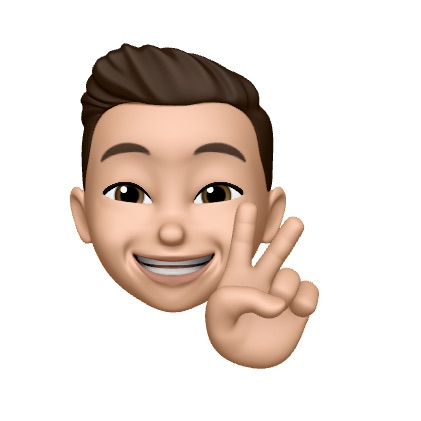
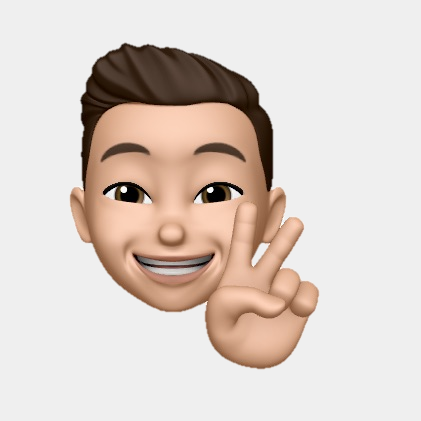
網頁icon調整、新增main區塊文字動畫

diff --git a/index.html b/index.html
@@ -13,7 +13,8 @@
     <title>Jack Tsai</title>
 </head>
 
-<body> <!--文字RWD待製作 2020/06/01-->
+<body>
+    <!--文字RWD待製作 2020/06/01-->
     <div class="container">
         <header>
             <div class="row">
@@ -52,10 +53,15 @@
             </ul>
         </nav>
         <main class="p-4">
-            <div id=hello class="text-center my-4">
+            <h2 class="ml10" id=hello class="text-center my-4">
+                <span class="text-wrapper">
+                    <span class="letters">Hi ! 很高興認識你，你可以透過上方的導覽列來了解更多關於我的資訊。</span>
+                </span>
+            </h2>
+            <!-- <div id=hello class="text-center my-4">
                 <h2 style="color: #FC4A1A;">Hi ! 很高興認識你，</h2>
                 <h4 style="color: #FC4A1A; font-weight: bold;">你可以透過上方的導覽列來了解更多關於我的資訊。</h4>
-            </div>
+            </div> -->
             <div id="personal" class="hide" style="padding: 50px 0px 50px 0px;">
                 <h2 class="main_tag">個人簡歷</h2>
                 <div class="main_container mb-3">
@@ -147,8 +153,22 @@
             </div>
             <div id="skill" class="hide" style="padding: 50px 0px 50px 0px;">
                 <h2 class="main_tag">技能分析</h2>
+                <!--使用D3.js做技能分析圓餅圖，下方文字敘述各技能可做到的事。-->
                 <div class="main_container mb-3">
                     2020/06/01 技能樹待製作
+                    <hr>
+                    <!-- 
+                    HTML5
+                    CSS3
+                    JavaScript
+                    Bootstrap4
+                    Node.js + Express
+                    D3.js
+                    mongodb
+                    Scss
+                    Git
+                    React.js 
+                -->
                 </div>
             </div>
         </main>
@@ -160,6 +180,7 @@
 
     <!-- Optional JavaScript -->
     <!-- jQuery first, then Popper.js, then Bootstrap JS -->
+    <script src="https://cdnjs.cloudflare.com/ajax/libs/animejs/2.0.2/anime.min.js"></script>
     <script src="./js/bootstrap.js"></script>
     <script src="./js/app.js"></script>
 </body>

diff --git a/css/style.css b/css/style.css
@@ -100,20 +100,42 @@ main {
     z-index: 0;
 }
 
+/* 文字動畫效果 */
+.ml10 {
+    position: relative;
+    font-weight: 900;
+    font-size: 1.5em;
+    text-align: center;
+}
+
+.ml10 .text-wrapper {
+    position: relative;
+    display: inline-block;
+    overflow: hidden;
+}
+
+.ml10 .letter {
+    display: inline-block;
+    transform-origin: 0 0;
+    color: #FC4A1A;
+}
+
+/* 文字動畫效果 */
+
 .main_tag {
     display: inline-block;
     margin-bottom: 0;
     padding: 10px;
     background-color: #FC4A1A;
     color: white;
-    border-radius: 8px 8px 0 0;
+    border-radius: 20px 20px 0 0;
 }
 
 .main_container {
     margin-top: 0;
     background-color: white;
     border: 2px solid #FC4A1A;
-    border-radius: 0 10px 10px 10px;
+    border-radius: 0 20px 20px 20px;
     padding: 15px;
 }
 
@@ -158,12 +180,12 @@ main {
 }
 
 .card-body {
-    border-radius: 0px 0px 10px 10px;
+    border-radius: 0px 0px 20px 20px;
     background-color: rgb(250, 248, 248);
 }
 
 .card-img-top {
-    border-radius: 10px 10px 0px 0px;
+    border-radius: 20px 20px 0px 0px;
 }
 
 

diff --git a/js/app.js b/js/app.js
@@ -14,3 +14,22 @@ function show(item) {
     show.classList.toggle("hide");
     show.scrollIntoView(true);
 }
+
+// 文字動畫效果
+var textWrapper = document.querySelector('.ml10 .letters');
+textWrapper.innerHTML = textWrapper.textContent.replace(/\S/g, "<span class='letter'>$&</span>");
+anime.timeline({
+        loop: true
+    })
+    .add({
+        targets: '.ml10 .letter',
+        rotateY: [-90, 0],
+        duration: 1500,
+        delay: (el, i) => 45 * i
+    }).add({
+        targets: '.ml10',
+        opacity: 0,
+        duration: 1000,
+        easing: "easeOutExpo",
+        delay: 3500
+    });
